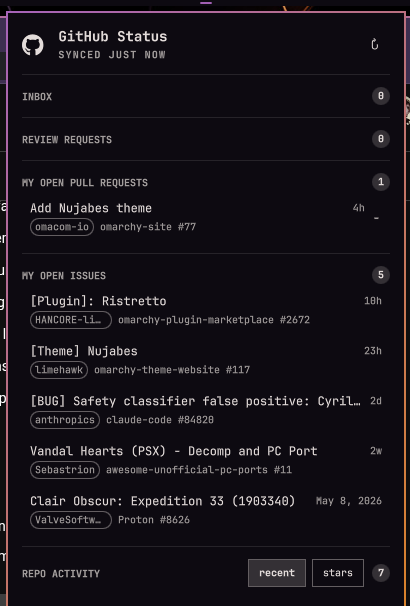
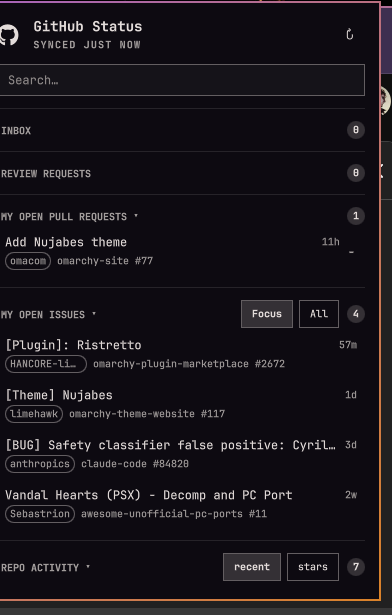
Update README, developers.md, and preview.png for v1.2 feedback delta
Documents G1-G4 (search, commenter tooltips, section fold, Focus/All
issues toggle) in the README's feature list and settings table, and adds
three developers.md decision notes for the focus-model choice (G1),
fail-open subscribed semantics (G4), and session-only fold state (G3).
preview.png refreshed from a live capture of the default (Focus) state
showing the new search field and Focus/All toggle.

diff --git a/docs/developers.md b/docs/developers.md
@@ -15,10 +15,10 @@ treat them as evidence, not as something a fresh clone needs to have.
 |---|---|
 | `Service.qml` | The data layer and the only owner of machine-wide state: every `Process`, `Timer`, and piece of mutable data lives here. Loaded once by the shell (`kinds: ["service", ...]`, `keepLoaded: true`). |
 | `BarWidget.qml` | The bar button. Eager-`Loader`-hosted panel, GitHub octicon + count pill. One instance **per monitor** — reads `Service.qml`'s public properties, owns none of its own. |
-| `Panel.qml` | The popup UI: hero, degradation hint, five sections (inbox, review requests, open PRs, open issues, repo activity). One instance **per monitor**, same as `BarWidget.qml`. Binds to the service; writes nothing back to it except calling `refresh()`/`openUrl()`/`setRepoSort()`. |
-| `SectionHeader.qml` | v1.1: kit-styled section header (label + right-aligned count/`"…"` pill, optional `extra` slot) shared by all five `Panel.qml` sections; also where the F1 recent/stars toggle is instantiated for the repo-activity header. |
-| `Model.js` | Pure logic, no Quickshell imports, ES5-compatible so plain Node can `require()` it: every `gh` JSON → UI-shape mapping function, the URL allowlist, the failure classifier, field/list caps, and (v1.1) `repoPill`/`sortRepos`/`ownerFromNameWithOwner`/`isExternalOwner`/`mergedSettings`. Fully unit-testable without a running shell. |
-| `scripts/fetch-dashboard` | `bash`: `exec gh api graphql` with the combined query (openPRs + repos + review-requests + v1.1's `myIssues`) embedded as a fixed string. |
+| `Panel.qml` | The popup UI: hero, degradation hint, search field (v1.2), five sections (inbox, review requests, open PRs, open issues, repo activity), each independently foldable (v1.2). One instance **per monitor**, same as `BarWidget.qml`. Binds to the service; writes nothing back to it except calling `refresh()`/`openUrl()`/`setRepoSort()`/`setIssuesFilter()`. |
+| `SectionHeader.qml` | v1.1: kit-styled section header (label + right-aligned count/`"…"` pill, optional `extra` slot) shared by all five `Panel.qml` sections; also where the F1 recent/stars and (v1.2) G4 Focus/All toggles are instantiated. v1.2 adds `collapsed`/`toggled()` for the click-to-fold header (G3). |
+| `Model.js` | Pure logic, no Quickshell imports, ES5-compatible so plain Node can `require()` it: every `gh` JSON → UI-shape mapping function, the URL allowlist, the failure classifier, field/list caps, (v1.1) `repoPill`/`sortRepos`/`ownerFromNameWithOwner`/`isExternalOwner`/`mergedSettings`, and (v1.2) `matchesQuery`/`filterIssues`/`lastComment`/`subscribedFromViewerSubscription`. Fully unit-testable without a running shell. |
+| `scripts/fetch-dashboard` | `bash`: `exec gh api graphql` with the combined query (openPRs + repos + review-requests + v1.1's `myIssues`, each PR/issue/review-request node also carrying v1.2's `comments(last: 1)` and (issues only) `viewerSubscription`) embedded as a fixed string. |
 | `scripts/fetch-notifications` | `bash`: `exec gh api -i notifications [-H "If-None-Match: $1"]` — the ETag is the one remote-derived script argument anywhere in this plugin. |
 | `scripts/probe-auth` | `bash`: `gh api user --jq .login` under `timeout 25`, translated to one of five stable exit codes. Does **not** call `gh auth status` (see below). |
 
@@ -152,9 +152,15 @@ Nothing in either UI file spawns a process, opens a URL, or touches
   Text.PlainText` + `elide: Text.ElideRight` on every `Text` element that
   renders a remote-derived field (notification/PR/review-request/issue/repo
   title/reason/meta/age/owner text) — grep-provable
-  (`grep -c 'textFormat: Text.PlainText' Panel.qml` → 19 as of the v1.1
-  delta, up from 12 pre-delta; `SectionHeader.qml` adds one more for its
-  synthesized — not remote, but PlainText as policy — count pill). This exists
+  (`grep -c 'textFormat: Text.PlainText' Panel.qml` → 20 as of the v1.2
+  delta, up from 19 at v1.1 and 12 pre-delta — only +1 despite G2 adding
+  three new `SafeToolTip` call sites (`PrRow`/`ReviewRequestRow`/`IssueRow`)
+  because `SafeToolTip`'s own `PlainText` is declared once, on its shared
+  `component` definition (`Panel.qml:832-...`); reusing the component at
+  three more sites doesn't add three more grep-visible lines. The one new
+  hit is the G1 search row's "✕" clear glyph. `SectionHeader.qml` → 2 (the
+  pre-existing count pill plus v1.2's fold chevron, both synthesized glyphs —
+  not remote, but PlainText as policy)). This exists
   because the closest sibling plugin, `viniciusfnery.github-inbox`, was
   flagged in its own marketplace maintainer review for rendering
   GitHub-controlled notification titles through a component that
@@ -295,6 +301,72 @@ Nothing in either UI file spawns a process, opens a URL, or touches
   known `owner` field (`Model.remapNotificationsExternal`) rather than
   waiting out a full `notificationsIntervalSec` poll or needing to retain a
   second copy of raw data anywhere.
+
+- **G1 search field is not auto-focused on open — the key catcher keeps
+  focus by default, the field earns it only on click.** (v1.2,
+  `exchange/26-feedback2-delta-spec.md`, `exchange/28-s14-ui-delta.md`.)
+  `KeyboardPanel` already force-focuses its own `PanelKeyCatcher` on every
+  open via an internal `Qt.callLater`; a second, independent
+  `Qt.callLater(searchField.forceActiveFocus)` from `Panel.qml`'s own
+  `onOpenedChanged` would race that — undocumented ordering between two
+  handlers scheduled into the same event-loop queue, not a guarantee. The
+  shape actually used follows the closest first-party precedent for an
+  inline text editor living inside a `KeyboardPanel` — the network plugin's
+  Wi-Fi passphrase prompt (`/usr/share/omarchy/shell/plugins/panels/network/
+  Panel.qml:834-874,991-996`): a real `Ui/TextField`, focused only by an
+  explicit user action (a click), with `PanelKeyCatcher.blocked: !!
+  searchField && searchField.activeFocus` so the moment the field holds
+  focus, the catcher stops intercepting keys — `PanelKeyCatcher.qml`'s own
+  header comment prescribes exactly this shape. The image-picker's
+  `filterable` idiom (typing directly into an invisible-focus carousel via
+  its own `Keys.onPressed`) was considered and rejected: that panel never
+  binds `j/k/h/l`, this one already does (`PanelKeyCatcher`'s vertical
+  scroll), and `PanelKeyCatcher.Keys.onPressed`'s own if/else chain consumes
+  those letters *before* the generic `textKey` channel a filterable-style
+  field would need — concretely, **"Nujabes" contains a "j"**, the human's
+  own example string, which would have been silently truncated typing
+  through that channel. Esc is handled locally on the field itself
+  (`Keys.onEscapePressed`): clears a non-empty query first, closes the panel
+  on a second Esc — no change to `PanelKeyCatcher` itself. A clickable "✕"
+  is always present too, for mouse users and as a fallback.
+
+- **G4's `subscribed` fails open, in both directions, deliberately.**
+  (v1.2, `exchange/26-feedback2-delta-spec.md`.) `Model.
+  subscribedFromViewerSubscription` treats a missing/`null`
+  `viewerSubscription` field as `true` (subscribed), never `false`; `Model.
+  filterIssues`'s `"focus"` branch keeps a row whose `subscribed` field is
+  anything other than exactly `false` (`subscribed !== false`, not
+  `subscribed === true`). Both choices point the same direction on purpose:
+  a schema hiccup, a future GraphQL field rename, or a hand-built/legacy
+  item missing the field entirely must never cause an issue the user cares
+  about to silently vanish under the default "Focus" view — the failure
+  mode of an over-eager filter (an issue wrongly hidden) is worse than the
+  failure mode of an under-eager one (an issue wrongly shown, which is
+  exactly what "All" is there to reveal anyway). This mirrors the project's
+  existing fail-open precedent for `isExternalOwner`'s "unknown login is
+  never external" default. Live-verified against the real account
+  (`exchange/27-s13-data-delta.md` §1): `ValveSoftware/Proton#8626` comes
+  back `viewerSubscription: "UNSUBSCRIBED"` → `subscribed: false` → hidden
+  in Focus, the exact acceptance case from the human's own feedback.
+
+- **G3's fold state is session-only, per-panel-instance, deliberately not
+  persisted to `shell.json`.** (v1.2, `exchange/26-feedback2-delta-spec.md`.)
+  `Panel.qml`'s five `xCollapsed` booleans
+  (`inboxCollapsed`/`reviewRequestsCollapsed`/`openPRsCollapsed`/
+  `myIssuesCollapsed`/`repoActivityCollapsed`) are plain properties on the
+  panel root, reset alongside `searchQuery` in the same `onOpenedChanged`
+  branch — "resets on panel reload" is the spec's own words, not an
+  implementation shortcut. This is a different persistence tier than
+  `repoSort`/`issuesFilter` (both go through `Model.mergedSettings` →
+  `shell.updateEntryInline`, survive a restart) on purpose: a fold is a
+  transient "I don't need to see this right now" gesture scoped to one
+  look at the panel, not a standing preference like sort order or which
+  issues to see by default — persisting it would mean a section a user
+  folded once during a busy afternoon stays invisible forever until they
+  remember to unfold it, silently hiding future data the way F4's own
+  "less old clutter" complaint was originally about. If a future feedback
+  round asks for persisted fold state, it is a new, explicit decision, not
+  a natural extension of this one.
 
 ## Accepted risks (documented, not fixed)
 

diff --git a/README.md b/README.md
@@ -11,10 +11,15 @@ From the bar you can see, at a glance and in one click:
 - Unread GitHub notifications — count in the bar, list in the panel.
 - Your own open PRs, with CI status and review decision.
 - PRs waiting on your review.
-- Open issues you yourself authored, across every repo.
+- Open issues you yourself authored, across every repo — with a Focus/All
+  toggle so unsubscribed clutter stays out of your way by default.
 - Activity across your own repos: latest commit, open issues/PRs, latest
   release — sortable by recent activity or star count, with an
   archived/fork/private status pill.
+- A live search field at the top of the panel filters every section as you
+  type.
+- Hover a PR or issue row to see who commented last and when.
+- Click any populated section header to fold it out of the way.
 - Click any item to open it on github.com in your browser.
 
 ## Features
@@ -29,16 +34,32 @@ From the bar you can see, at a glance and in one click:
   relative last-activity age for every open PR you have across every repo
   you can access, not just one repo at a time.
 - **My open issues** — every issue you yourself opened and is still open,
-  across every repo, with a relative last-activity age.
+  across every repo, with a relative last-activity age. A **Focus/All**
+  toggle in the section header (default: Focus) hides issues you've
+  unsubscribed from, so old clutter you no longer care about doesn't linger
+  in the panel — flip to All to see everything again.
 - **Repo activity** — your own repos with open issue/PR counts and the
   latest release tag where one exists. Sort by last activity (default) or
   star count with a one-click toggle in the section header.
+- **Search** — a live filter field at the top of the panel. Type anything
+  and every section (notifications, PRs, review requests, issues, repos)
+  narrows to matching title/repo/owner/name in place; count pills reflect
+  what's actually shown while you search. Esc clears the query first, then
+  closes the panel on a second press; a clear (✕) button is always
+  available too.
+- **Last commenter on hover** — hover a PR, review-request, or issue row to
+  see who commented last and how long ago, when there's a comment to show.
+- **Fold sections you don't need** — click any populated section header to
+  collapse it to just its title and count for the rest of the session (it
+  reopens the next time you open the panel). A small chevron next to the
+  header text tells you it's collapsible; empty sections have no chevron
+  since they're already as compact as they get.
 - **Status pills everywhere** — every section header carries a right-aligned
-  count pill (unread count for Inbox, rendered-list length elsewhere), and a
-  section with nothing in it folds to just that header row — no empty-state
-  filler text. Repo rows get an archived/fork/private pill (archived wins
-  when more than one applies); PR/issue/inbox rows for a repo you don't own
-  get a small pill naming the external owner.
+  count pill (unread count for Inbox, rendered/filtered-list length
+  elsewhere), and a section with nothing in it folds to just that header
+  row — no empty-state filler text. Repo rows get an archived/fork/private
+  pill (archived wins when more than one applies); PR/issue/inbox rows for a
+  repo you don't own get a small pill naming the external owner.
 - **Graceful degradation** — if `gh` isn't installed, isn't signed in, the
   network is down, or you're rate-limited, the panel says so plainly and
   keeps showing your last-known-good data instead of going blank.
@@ -86,6 +107,7 @@ UI in this version):
 | Notifications poll interval | 60s | 60–600s | How often the notifications inbox polls. Matches GitHub's own guidance; conditional requests mean an unchanged inbox costs nothing. |
 | Repos shown in activity list | 10 | 3–30 | How many of your repos appear in the activity section. |
 | Repo sort | Last activity | Last activity / Stars | Order of the repo activity list — also toggleable from the panel's Repo activity section header. |
+| Issues filter | Focus | Focus / All | Whether My open issues shows only issues you're still subscribed to (Focus) or every open issue you authored (All) — also toggleable from the panel's My open issues section header. |
 
 ## Security & privacy
 
